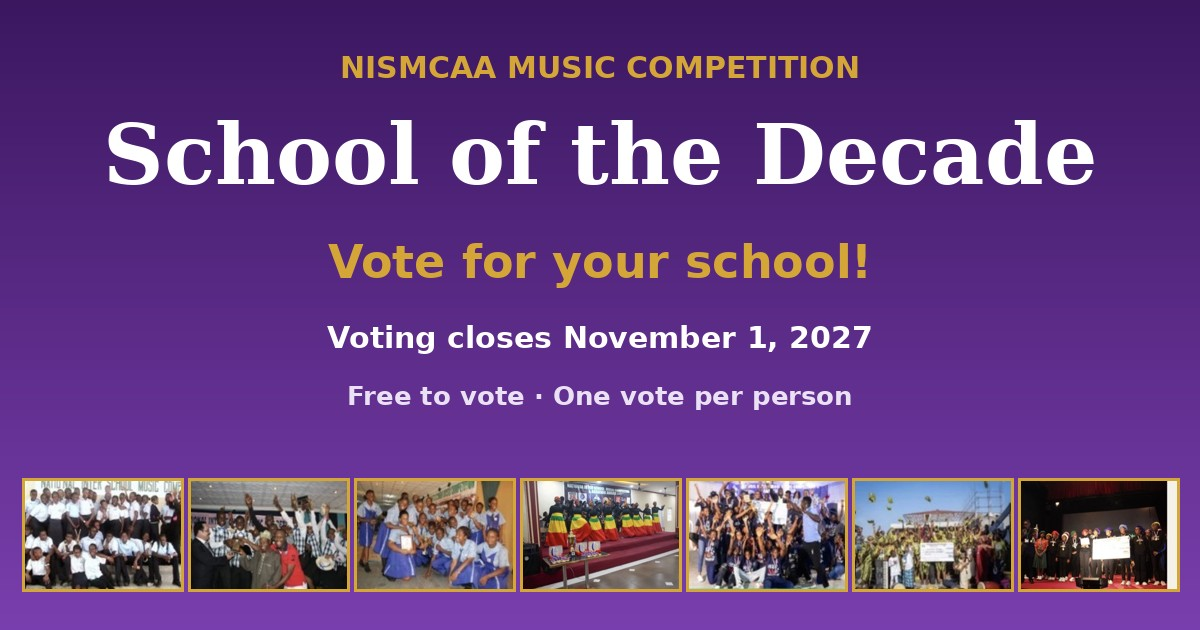
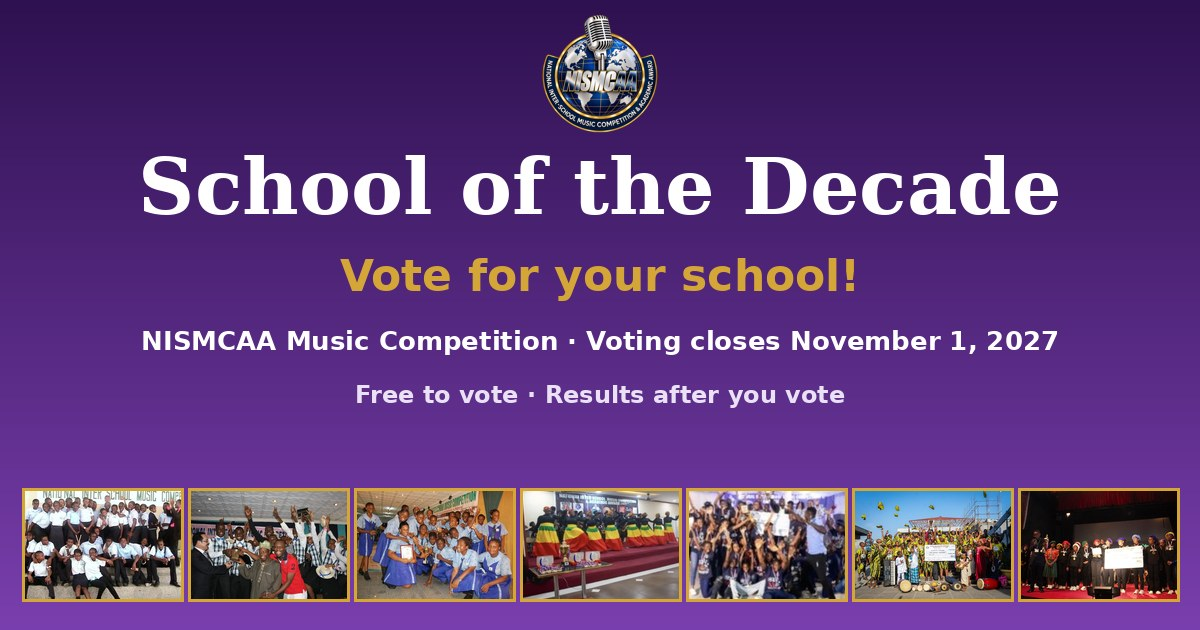
SOTD v3: Tiana review fixes, hi-res photos, hidden counts, privacy, admin page

diff --git a/sotd.html b/sotd.html
@@ -3,89 +3,99 @@
 <meta property="og:type" content="website"><meta property="og:title" content="NISMCAA School of the Decade 🏆"><meta property="og:description" content="Vote for your school! Every NISMCAA Music Competition winning school is in the running. Voting closes November 1, 2027.">
 <meta property="og:url" content="https://koralimage-debug.github.io/nismcaa-meeting-room/sotd.html"><meta property="og:image" content="https://koralimage-debug.github.io/nismcaa-meeting-room/images/sotd/share_1200x630.jpg"><meta property="og:image:width" content="1200"><meta property="og:image:height" content="630"><meta property="og:image:alt" content="NISMCAA School of the Decade: photos of the winning schools in purple and gold">
 <meta name="twitter:card" content="summary_large_image"><meta name="twitter:title" content="NISMCAA School of the Decade 🏆"><meta name="twitter:description" content="Vote for your school! Voting closes November 1, 2027."><meta name="twitter:image" content="https://koralimage-debug.github.io/nismcaa-meeting-room/images/sotd/share_1200x630.jpg">
+<link rel="preconnect" href="https://fonts.googleapis.com"><link href="https://fonts.googleapis.com/css2?family=Montserrat:wght@500;600;700;800&family=Playfair+Display:wght@700;800&display=swap" rel="stylesheet">
 <title>NISMCAA School of the Decade</title>
 <style>
-*{box-sizing:border-box}html,body{margin:0;overflow-x:hidden}body{font-family:system-ui,-apple-system,Segoe UI,Roboto,sans-serif;background:#f7f3fb;color:#24123a;line-height:1.45}
-header{background:linear-gradient(160deg,#3b1760,#5B2A86 60%,#7a3fae);color:#fff;text-align:center;padding:28px 16px 24px}
-header .k{color:#D4A537;font-weight:700;letter-spacing:.12em;font-size:13px;text-transform:uppercase}
-h1{font-family:Georgia,serif;font-size:30px;margin:6px 0 8px;line-height:1.15}h1 span{color:#D4A537}
+*{box-sizing:border-box}html,body{margin:0;overflow-x:hidden}body{font-family:Montserrat,system-ui,-apple-system,Segoe UI,Roboto,sans-serif;background:#f7f3fb;color:#24123a;line-height:1.5}
+header{background:radial-gradient(circle at 50% 0,#8a4cc2,#5B2A86 45%,#2e1150);color:#fff;text-align:center;padding:22px 16px 24px}
+header img{width:112px;height:112px;object-fit:contain;filter:drop-shadow(0 4px 14px rgba(0,0,0,.35))}
+header .k{color:#D4A537;font-weight:700;letter-spacing:.14em;font-size:13px;text-transform:uppercase;margin-top:6px}
+h1{font-family:"Playfair Display",Georgia,serif;font-size:34px;margin:4px 0 8px;line-height:1.1}h1 span{color:#D4A537}
 header p{margin:0 auto;max-width:560px;font-size:16px;opacity:.95}
 .cd{display:flex;justify-content:center;gap:8px;margin-top:16px}.cd div{background:rgba(255,255,255,.12);border:1px solid #D4A537;border-radius:10px;padding:8px 0;width:68px}
-.cd b{display:block;font-size:22px;color:#D4A537}.cd small{font-size:12px}
+.cd b{display:block;font-size:22px;color:#D4A537}.cd small{font-size:12px}#dl{margin-top:8px;font-size:14px}
 main{max-width:1100px;margin:0 auto;padding:16px}
-.grid{display:grid;grid-template-columns:1fr;gap:16px}@media(min-width:640px){.grid{grid-template-columns:1fr 1fr}}@media(min-width:980px){.grid{grid-template-columns:1fr 1fr 1fr}}
+.grid{display:flex;flex-wrap:wrap;justify-content:center;gap:16px}.card{flex:1 1 100%;max-width:520px}
+@media(min-width:640px){.card{flex:0 1 calc(50% - 8px)}}@media(min-width:980px){.card{flex:0 1 calc(33.333% - 11px)}}
 .card{background:#fff;border-radius:16px;overflow:hidden;box-shadow:0 4px 18px rgba(59,23,96,.12);border-top:4px solid #D4A537;display:flex;flex-direction:column}
 .card img{width:100%;aspect-ratio:3/2;object-fit:cover;display:block;background:#eee}
 .ill{aspect-ratio:3/2;background:radial-gradient(circle at 50% 40%,#7a3fae,#3b1760);display:flex;align-items:center;justify-content:center;color:#D4A537;font-family:Georgia,serif;font-size:56px}
 .body{padding:14px 16px 16px;display:flex;flex-direction:column;gap:8px;flex:1}
 .card h2{margin:0;font-size:20px;color:#3b1760}.ed{display:flex;flex-wrap:wrap;gap:6px}.ed span{background:#f3e8c9;color:#6b4b00;border-radius:999px;padding:3px 10px;font-size:13px;font-weight:600}
-.vote{margin-top:auto;min-height:52px;border:0;border-radius:12px;background:linear-gradient(#e2b649,#c99520);color:#24123a;font-size:18px;font-weight:800;cursor:pointer}
+.vote{margin-top:auto;min-height:52px;border:0;border-radius:12px;background:linear-gradient(#e2b649,#c99520);color:#24123a;font:800 18px Montserrat,system-ui,sans-serif;cursor:pointer}
 .vote:disabled{opacity:.55;cursor:default}.bar{height:12px;background:#eee;border-radius:6px;overflow:hidden}.bar i{display:block;height:100%;background:linear-gradient(90deg,#5B2A86,#D4A537);width:0;transition:width .8s}
-.res{display:none;font-size:14px;font-weight:600;color:#5B2A86}.voted .res{display:block}.mine{outline:3px solid #D4A537}
-#msg{text-align:center;font-weight:700;color:#5B2A86;min-height:22px;margin:4px 0 12px}
+.res{display:none;font-size:14px;font-weight:600;color:#5B2A86}.shown .res{display:block}.mine{outline:3px solid #D4A537}
+#msg{text-align:center;font-weight:700;color:#5B2A86;min-height:22px;margin:4px 0 12px}#msg button{min-height:44px;margin-left:8px;padding:0 18px;border-radius:22px;border:2px solid #5B2A86;background:#fff;color:#5B2A86;font:700 15px Montserrat,sans-serif;cursor:pointer}
+#board{display:none;background:#fff;border-radius:16px;padding:16px;margin-bottom:16px;box-shadow:0 4px 18px rgba(59,23,96,.10)}#board h3{margin:0 0 10px;color:#3b1760;text-align:center}
+#board ol{margin:0;padding:0;list-style:none}#board li{margin:8px 0}#board .r{display:flex;justify-content:space-between;font-weight:600;font-size:15px;gap:8px}
+.win{background:linear-gradient(135deg,#3b1760,#5B2A86);color:#fff;border:2px solid #D4A537;border-radius:16px;padding:16px;text-align:center;margin-bottom:16px;display:none}.win b{color:#D4A537;font-family:"Playfair Display",serif;font-size:24px;display:block}
 section.rules{background:#fff;border-radius:16px;padding:18px;margin-top:24px;border-left:5px solid #5B2A86}section.rules h3{margin-top:0;color:#3b1760}
 footer{text-align:center;padding:24px 16px;color:#5B2A86;font-size:14px}a{color:#5B2A86}
-#admin{display:none;background:#fff;border-radius:16px;padding:16px;margin-top:24px}#admin input{width:100%;padding:10px;font-size:16px;margin:6px 0}#admin table{width:100%;border-collapse:collapse}#admin td{padding:6px;border-bottom:1px solid #eee}
+.tl{display:inline-flex;align-items:center;min-height:44px;padding:0 4px;font-weight:700}
 .share{background:#fff;border-radius:16px;padding:14px;margin:0 0 16px;box-shadow:0 4px 18px rgba(59,23,96,.10);text-align:center}
 .share h3{margin:0 0 10px;font-size:17px;color:#3b1760}.sb{display:flex;flex-wrap:wrap;justify-content:center;gap:10px}
 .sb a,.sb button{width:48px;height:48px;border-radius:50%;border:2px solid #D4A537;background:#5B2A86;display:inline-flex;align-items:center;justify-content:center;cursor:pointer;padding:0}
 .sb svg{width:22px;height:22px;fill:#fff}.sb .nat{background:#D4A537}.sb .nat svg{fill:#3b1760}.sn{font-size:14px;color:#5B2A86;font-weight:600;min-height:20px;margin-top:8px}
 #share2{display:none}.voted #share2{display:block}
 </style></head><body>
-<header><div class="k">NISMCAA Music Competition</div><h1>School of the <span>Decade</span></h1>
+<header><img src="images/sotd/logo.png" alt="NISMCAA logo" width="112" height="112"><div class="k">NISMCAA Music Competition</div><h1>School of the <span>Decade</span></h1>
 <p>Every school that has won the NISMCAA Music Competition is in the running. Vote for your favorite. The school with the most votes is crowned NISMCAA School of the Decade.</p>
-<div class="cd" id="cd"></div><div id="dl" style="margin-top:8px;font-size:14px"></div></header>
-<main><section class="share" id="share1"><h3>Share the vote with your school family</h3><div class="sb"><button type="button" class="sc nat" data-k="sh" aria-label="Share" title="Share"><svg viewBox="0 0 24 24" aria-hidden="true"><path d="M18 16a3 3 0 0 0-2.2 1L8.9 13a3 3 0 0 0 0-2l6.9-4A3 3 0 1 0 15 5l-6.9 4a3 3 0 1 0 0 6l6.9 4A3 3 0 1 0 18 16z"/></svg></button><a class="sx" data-k="fb" target="_blank" rel="noopener" aria-label="Share on Facebook" title="Facebook" ><svg viewBox="0 0 24 24" aria-hidden="true"><path d="M14 8V6c0-1 .3-1.5 1.6-1.5H17V1.2C16.6 1.1 15.4 1 14 1c-3 0-4.6 1.7-4.6 4.8V8H7v3.4h2.4V23H14V11.4h2.8l.4-3.4z"/></svg></a><a class="sx" data-k="x" target="_blank" rel="noopener" aria-label="Share on X" title="X" ><svg viewBox="0 0 24 24" aria-hidden="true"><path d="M17.8 2h3.3l-7.2 8.3L22.4 22h-6.6l-5.2-6.8L4.6 22H1.3l7.7-8.8L.9 2h6.8l4.7 6.2zm-1.2 18h1.8L6.5 3.9H4.5z"/></svg></a><a class="sx" data-k="wa" target="_blank" rel="noopener" aria-label="Share on WhatsApp" title="WhatsApp" ><svg viewBox="0 0 24 24" aria-hidden="true"><path d="M12 1.5A10.4 10.4 0 0 0 3 17.2L1.5 22.5l5.5-1.4A10.4 10.4 0 1 0 12 1.5zm0 19a8.6 8.6 0 0 1-4.4-1.2l-.3-.2-3.3.9.9-3.2-.2-.3A8.6 8.6 0 1 1 12 20.5zm4.7-6.4c-.3-.1-1.5-.8-1.8-.8-.2-.1-.4-.1-.6.1l-.8 1c-.2.2-.3.2-.6.1a7 7 0 0 1-3.5-3c-.3-.5.3-.4.8-1.4.1-.2 0-.3 0-.5l-.8-1.9c-.2-.5-.4-.4-.6-.4h-.5a1 1 0 0 0-.7.3 3 3 0 0 0-.9 2.2 5.2 5.2 0 0 0 1.1 2.7c.1.2 1.9 2.9 4.6 4 1.7.7 2.4.8 3.2.7.5-.1 1.5-.6 1.8-1.2.2-.6.2-1.1.1-1.2l-.5-.3z"/></svg></a><a class="sx" data-k="li" target="_blank" rel="noopener" aria-label="Share on LinkedIn" title="LinkedIn" ><svg viewBox="0 0 24 24" aria-hidden="true"><path d="M4.5 3a2.2 2.2 0 1 1 0 4.4 2.2 2.2 0 0 1 0-4.4zM2.6 9h3.8v12H2.6zM9 9h3.6v1.7h.1c.5-1 1.7-2 3.6-2 3.8 0 4.5 2.5 4.5 5.8V21H17v-5.8c0-1.4 0-3.2-2-3.2s-2.2 1.5-2.2 3.1V21H9z"/></svg></a><a class="sx" data-k="tg" target="_blank" rel="noopener" aria-label="Share on Telegram" title="Telegram" ><svg viewBox="0 0 24 24" aria-hidden="true"><path d="M21.9 3.6 18.6 19.3c-.2 1.1-.9 1.4-1.8.9l-5-3.7-2.4 2.3c-.3.3-.5.5-1 .5l.3-5.1 9.3-8.4c.4-.4-.1-.6-.6-.2L5.9 12.8l-4.9-1.5c-1.1-.3-1.1-1.1.2-1.6L20.4 2.3c.9-.3 1.7.2 1.5 1.3z"/></svg></a><a class="sx" data-k="em" target="_blank" rel="noopener" aria-label="Share on Email" title="Email" ><svg viewBox="0 0 24 24" aria-hidden="true"><path d="M2 5h20v14H2zm2 2v.5l8 5 8-5V7zm0 2.8V17h16V9.8l-8 5z"/></svg></a><button type="button" class="sc " data-k="ig" aria-label="Instagram" title="Instagram"><svg viewBox="0 0 24 24" aria-hidden="true"><path d="M7 2h10a5 5 0 0 1 5 5v10a5 5 0 0 1-5 5H7a5 5 0 0 1-5-5V7a5 5 0 0 1 5-5zm0 2a3 3 0 0 0-3 3v10a3 3 0 0 0 3 3h10a3 3 0 0 0 3-3V7a3 3 0 0 0-3-3zm5 3.5a4.5 4.5 0 1 1 0 9 4.5 4.5 0 0 1 0-9zm0 2a2.5 2.5 0 1 0 0 5 2.5 2.5 0 0 0 0-5zM17.3 5.5a1.2 1.2 0 1 1 0 2.4 1.2 1.2 0 0 1 0-2.4z"/></svg></button><button type="button" class="sc " data-k="tt" aria-label="TikTok" title="TikTok"><svg viewBox="0 0 24 24" aria-hidden="true"><path d="M16.6 2c.4 2.3 1.9 3.9 4.4 4.1v3.3a8 8 0 0 1-4.3-1.3v6.6A6.3 6.3 0 1 1 10.4 8.5v3.4a3 3 0 1 0 2.9 3V2z"/></svg></button><button type="button" class="sc " data-k="ln" aria-label="Copy link" title="Copy link"><svg viewBox="0 0 24 24" aria-hidden="true"><path d="M10.6 13.4a1 1 0 0 1 0-1.4l3.5-3.5a3 3 0 0 1 4.2 4.2l-2 2a1 1 0 1 1-1.4-1.4l2-2a1 1 0 0 0-1.4-1.4L12 13.4a1 1 0 0 1-1.4 0zm2.8-2.8a1 1 0 0 1 0 1.4l-3.5 3.5a3 3 0 0 1-4.2-4.2l2-2a1 1 0 1 1 1.4 1.4l-2 2a1 1 0 0 0 1.4 1.4L12 9.2a1 1 0 0 1 1.4 0z"/></svg></button></div><div class="sn" aria-live="polite"></div></section><div id="msg"></div><section class="share" id="share2"><h3>Thanks for voting! Now ask your friends to vote</h3><div class="sb"><button type="button" class="sc nat" data-k="sh" aria-label="Share" title="Share"><svg viewBox="0 0 24 24" aria-hidden="true"><path d="M18 16a3 3 0 0 0-2.2 1L8.9 13a3 3 0 0 0 0-2l6.9-4A3 3 0 1 0 15 5l-6.9 4a3 3 0 1 0 0 6l6.9 4A3 3 0 1 0 18 16z"/></svg></button><a class="sx" data-k="fb" target="_blank" rel="noopener" aria-label="Share on Facebook" title="Facebook" ><svg viewBox="0 0 24 24" aria-hidden="true"><path d="M14 8V6c0-1 .3-1.5 1.6-1.5H17V1.2C16.6 1.1 15.4 1 14 1c-3 0-4.6 1.7-4.6 4.8V8H7v3.4h2.4V23H14V11.4h2.8l.4-3.4z"/></svg></a><a class="sx" data-k="x" target="_blank" rel="noopener" aria-label="Share on X" title="X" ><svg viewBox="0 0 24 24" aria-hidden="true"><path d="M17.8 2h3.3l-7.2 8.3L22.4 22h-6.6l-5.2-6.8L4.6 22H1.3l7.7-8.8L.9 2h6.8l4.7 6.2zm-1.2 18h1.8L6.5 3.9H4.5z"/></svg></a><a class="sx" data-k="wa" target="_blank" rel="noopener" aria-label="Share on WhatsApp" title="WhatsApp" ><svg viewBox="0 0 24 24" aria-hidden="true"><path d="M12 1.5A10.4 10.4 0 0 0 3 17.2L1.5 22.5l5.5-1.4A10.4 10.4 0 1 0 12 1.5zm0 19a8.6 8.6 0 0 1-4.4-1.2l-.3-.2-3.3.9.9-3.2-.2-.3A8.6 8.6 0 1 1 12 20.5zm4.7-6.4c-.3-.1-1.5-.8-1.8-.8-.2-.1-.4-.1-.6.1l-.8 1c-.2.2-.3.2-.6.1a7 7 0 0 1-3.5-3c-.3-.5.3-.4.8-1.4.1-.2 0-.3 0-.5l-.8-1.9c-.2-.5-.4-.4-.6-.4h-.5a1 1 0 0 0-.7.3 3 3 0 0 0-.9 2.2 5.2 5.2 0 0 0 1.1 2.7c.1.2 1.9 2.9 4.6 4 1.7.7 2.4.8 3.2.7.5-.1 1.5-.6 1.8-1.2.2-.6.2-1.1.1-1.2l-.5-.3z"/></svg></a><a class="sx" data-k="li" target="_blank" rel="noopener" aria-label="Share on LinkedIn" title="LinkedIn" ><svg viewBox="0 0 24 24" aria-hidden="true"><path d="M4.5 3a2.2 2.2 0 1 1 0 4.4 2.2 2.2 0 0 1 0-4.4zM2.6 9h3.8v12H2.6zM9 9h3.6v1.7h.1c.5-1 1.7-2 3.6-2 3.8 0 4.5 2.5 4.5 5.8V21H17v-5.8c0-1.4 0-3.2-2-3.2s-2.2 1.5-2.2 3.1V21H9z"/></svg></a><a class="sx" data-k="tg" target="_blank" rel="noopener" aria-label="Share on Telegram" title="Telegram" ><svg viewBox="0 0 24 24" aria-hidden="true"><path d="M21.9 3.6 18.6 19.3c-.2 1.1-.9 1.4-1.8.9l-5-3.7-2.4 2.3c-.3.3-.5.5-1 .5l.3-5.1 9.3-8.4c.4-.4-.1-.6-.6-.2L5.9 12.8l-4.9-1.5c-1.1-.3-1.1-1.1.2-1.6L20.4 2.3c.9-.3 1.7.2 1.5 1.3z"/></svg></a><a class="sx" data-k="em" target="_blank" rel="noopener" aria-label="Share on Email" title="Email" ><svg viewBox="0 0 24 24" aria-hidden="true"><path d="M2 5h20v14H2zm2 2v.5l8 5 8-5V7zm0 2.8V17h16V9.8l-8 5z"/></svg></a><button type="button" class="sc " data-k="ig" aria-label="Instagram" title="Instagram"><svg viewBox="0 0 24 24" aria-hidden="true"><path d="M7 2h10a5 5 0 0 1 5 5v10a5 5 0 0 1-5 5H7a5 5 0 0 1-5-5V7a5 5 0 0 1 5-5zm0 2a3 3 0 0 0-3 3v10a3 3 0 0 0 3 3h10a3 3 0 0 0 3-3V7a3 3 0 0 0-3-3zm5 3.5a4.5 4.5 0 1 1 0 9 4.5 4.5 0 0 1 0-9zm0 2a2.5 2.5 0 1 0 0 5 2.5 2.5 0 0 0 0-5zM17.3 5.5a1.2 1.2 0 1 1 0 2.4 1.2 1.2 0 0 1 0-2.4z"/></svg></button><button type="button" class="sc " data-k="tt" aria-label="TikTok" title="TikTok"><svg viewBox="0 0 24 24" aria-hidden="true"><path d="M16.6 2c.4 2.3 1.9 3.9 4.4 4.1v3.3a8 8 0 0 1-4.3-1.3v6.6A6.3 6.3 0 1 1 10.4 8.5v3.4a3 3 0 1 0 2.9 3V2z"/></svg></button><button type="button" class="sc " data-k="ln" aria-label="Copy link" title="Copy link"><svg viewBox="0 0 24 24" aria-hidden="true"><path d="M10.6 13.4a1 1 0 0 1 0-1.4l3.5-3.5a3 3 0 0 1 4.2 4.2l-2 2a1 1 0 1 1-1.4-1.4l2-2a1 1 0 0 0-1.4-1.4L12 13.4a1 1 0 0 1-1.4 0zm2.8-2.8a1 1 0 0 1 0 1.4l-3.5 3.5a3 3 0 0 1-4.2-4.2l2-2a1 1 0 1 1 1.4 1.4l-2 2a1 1 0 0 0 1.4 1.4L12 9.2a1 1 0 0 1 1.4 0z"/></svg></button></div><div class="sn" aria-live="polite"></div></section><div class="grid" id="grid"></div>
+<div class="cd" id="cd"></div><div id="dl"></div></header>
+<main><section class="share" id="share1"><h3>Share the vote with your school family</h3><div class="sb"><button type="button" class="sc nat" data-k="sh" aria-label="Share" title="Share"><svg viewBox="0 0 24 24" aria-hidden="true"><path d="M18 16a3 3 0 0 0-2.2 1L8.9 13a3 3 0 0 0 0-2l6.9-4A3 3 0 1 0 15 5l-6.9 4a3 3 0 1 0 0 6l6.9 4A3 3 0 1 0 18 16z"/></svg></button><a class="sx" data-k="fb" target="_blank" rel="noopener" aria-label="Share on Facebook" title="Facebook" ><svg viewBox="0 0 24 24" aria-hidden="true"><path d="M14 8V6c0-1 .3-1.5 1.6-1.5H17V1.2C16.6 1.1 15.4 1 14 1c-3 0-4.6 1.7-4.6 4.8V8H7v3.4h2.4V23H14V11.4h2.8l.4-3.4z"/></svg></a><a class="sx" data-k="x" target="_blank" rel="noopener" aria-label="Share on X" title="X" ><svg viewBox="0 0 24 24" aria-hidden="true"><path d="M17.8 2h3.3l-7.2 8.3L22.4 22h-6.6l-5.2-6.8L4.6 22H1.3l7.7-8.8L.9 2h6.8l4.7 6.2zm-1.2 18h1.8L6.5 3.9H4.5z"/></svg></a><a class="sx" data-k="wa" target="_blank" rel="noopener" aria-label="Share on WhatsApp" title="WhatsApp" ><svg viewBox="0 0 24 24" aria-hidden="true"><path d="M12 1.5A10.4 10.4 0 0 0 3 17.2L1.5 22.5l5.5-1.4A10.4 10.4 0 1 0 12 1.5zm0 19a8.6 8.6 0 0 1-4.4-1.2l-.3-.2-3.3.9.9-3.2-.2-.3A8.6 8.6 0 1 1 12 20.5zm4.7-6.4c-.3-.1-1.5-.8-1.8-.8-.2-.1-.4-.1-.6.1l-.8 1c-.2.2-.3.2-.6.1a7 7 0 0 1-3.5-3c-.3-.5.3-.4.8-1.4.1-.2 0-.3 0-.5l-.8-1.9c-.2-.5-.4-.4-.6-.4h-.5a1 1 0 0 0-.7.3 3 3 0 0 0-.9 2.2 5.2 5.2 0 0 0 1.1 2.7c.1.2 1.9 2.9 4.6 4 1.7.7 2.4.8 3.2.7.5-.1 1.5-.6 1.8-1.2.2-.6.2-1.1.1-1.2l-.5-.3z"/></svg></a><a class="sx" data-k="li" target="_blank" rel="noopener" aria-label="Share on LinkedIn" title="LinkedIn" ><svg viewBox="0 0 24 24" aria-hidden="true"><path d="M4.5 3a2.2 2.2 0 1 1 0 4.4 2.2 2.2 0 0 1 0-4.4zM2.6 9h3.8v12H2.6zM9 9h3.6v1.7h.1c.5-1 1.7-2 3.6-2 3.8 0 4.5 2.5 4.5 5.8V21H17v-5.8c0-1.4 0-3.2-2-3.2s-2.2 1.5-2.2 3.1V21H9z"/></svg></a><a class="sx" data-k="tg" target="_blank" rel="noopener" aria-label="Share on Telegram" title="Telegram" ><svg viewBox="0 0 24 24" aria-hidden="true"><path d="M21.9 3.6 18.6 19.3c-.2 1.1-.9 1.4-1.8.9l-5-3.7-2.4 2.3c-.3.3-.5.5-1 .5l.3-5.1 9.3-8.4c.4-.4-.1-.6-.6-.2L5.9 12.8l-4.9-1.5c-1.1-.3-1.1-1.1.2-1.6L20.4 2.3c.9-.3 1.7.2 1.5 1.3z"/></svg></a><a class="sx" data-k="em" target="_blank" rel="noopener" aria-label="Share on Email" title="Email" ><svg viewBox="0 0 24 24" aria-hidden="true"><path d="M2 5h20v14H2zm2 2v.5l8 5 8-5V7zm0 2.8V17h16V9.8l-8 5z"/></svg></a><button type="button" class="sc " data-k="ig" aria-label="Instagram" title="Instagram"><svg viewBox="0 0 24 24" aria-hidden="true"><path d="M7 2h10a5 5 0 0 1 5 5v10a5 5 0 0 1-5 5H7a5 5 0 0 1-5-5V7a5 5 0 0 1 5-5zm0 2a3 3 0 0 0-3 3v10a3 3 0 0 0 3 3h10a3 3 0 0 0 3-3V7a3 3 0 0 0-3-3zm5 3.5a4.5 4.5 0 1 1 0 9 4.5 4.5 0 0 1 0-9zm0 2a2.5 2.5 0 1 0 0 5 2.5 2.5 0 0 0 0-5zM17.3 5.5a1.2 1.2 0 1 1 0 2.4 1.2 1.2 0 0 1 0-2.4z"/></svg></button><button type="button" class="sc " data-k="tt" aria-label="TikTok" title="TikTok"><svg viewBox="0 0 24 24" aria-hidden="true"><path d="M16.6 2c.4 2.3 1.9 3.9 4.4 4.1v3.3a8 8 0 0 1-4.3-1.3v6.6A6.3 6.3 0 1 1 10.4 8.5v3.4a3 3 0 1 0 2.9 3V2z"/></svg></button><button type="button" class="sc " data-k="ln" aria-label="Copy link" title="Copy link"><svg viewBox="0 0 24 24" aria-hidden="true"><path d="M10.6 13.4a1 1 0 0 1 0-1.4l3.5-3.5a3 3 0 0 1 4.2 4.2l-2 2a1 1 0 1 1-1.4-1.4l2-2a1 1 0 0 0-1.4-1.4L12 13.4a1 1 0 0 1-1.4 0zm2.8-2.8a1 1 0 0 1 0 1.4l-3.5 3.5a3 3 0 0 1-4.2-4.2l2-2a1 1 0 1 1 1.4 1.4l-2 2a1 1 0 0 0 1.4 1.4L12 9.2a1 1 0 0 1 1.4 0z"/></svg></button></div><div class="sn" aria-live="polite"></div></section><div class="win" id="win"></div><div id="msg" aria-live="polite">Loading the vote…</div><section class="share" id="share2"><h3>Thanks for voting! Now ask your friends to vote</h3><div class="sb"><button type="button" class="sc nat" data-k="sh" aria-label="Share" title="Share"><svg viewBox="0 0 24 24" aria-hidden="true"><path d="M18 16a3 3 0 0 0-2.2 1L8.9 13a3 3 0 0 0 0-2l6.9-4A3 3 0 1 0 15 5l-6.9 4a3 3 0 1 0 0 6l6.9 4A3 3 0 1 0 18 16z"/></svg></button><a class="sx" data-k="fb" target="_blank" rel="noopener" aria-label="Share on Facebook" title="Facebook" ><svg viewBox="0 0 24 24" aria-hidden="true"><path d="M14 8V6c0-1 .3-1.5 1.6-1.5H17V1.2C16.6 1.1 15.4 1 14 1c-3 0-4.6 1.7-4.6 4.8V8H7v3.4h2.4V23H14V11.4h2.8l.4-3.4z"/></svg></a><a class="sx" data-k="x" target="_blank" rel="noopener" aria-label="Share on X" title="X" ><svg viewBox="0 0 24 24" aria-hidden="true"><path d="M17.8 2h3.3l-7.2 8.3L22.4 22h-6.6l-5.2-6.8L4.6 22H1.3l7.7-8.8L.9 2h6.8l4.7 6.2zm-1.2 18h1.8L6.5 3.9H4.5z"/></svg></a><a class="sx" data-k="wa" target="_blank" rel="noopener" aria-label="Share on WhatsApp" title="WhatsApp" ><svg viewBox="0 0 24 24" aria-hidden="true"><path d="M12 1.5A10.4 10.4 0 0 0 3 17.2L1.5 22.5l5.5-1.4A10.4 10.4 0 1 0 12 1.5zm0 19a8.6 8.6 0 0 1-4.4-1.2l-.3-.2-3.3.9.9-3.2-.2-.3A8.6 8.6 0 1 1 12 20.5zm4.7-6.4c-.3-.1-1.5-.8-1.8-.8-.2-.1-.4-.1-.6.1l-.8 1c-.2.2-.3.2-.6.1a7 7 0 0 1-3.5-3c-.3-.5.3-.4.8-1.4.1-.2 0-.3 0-.5l-.8-1.9c-.2-.5-.4-.4-.6-.4h-.5a1 1 0 0 0-.7.3 3 3 0 0 0-.9 2.2 5.2 5.2 0 0 0 1.1 2.7c.1.2 1.9 2.9 4.6 4 1.7.7 2.4.8 3.2.7.5-.1 1.5-.6 1.8-1.2.2-.6.2-1.1.1-1.2l-.5-.3z"/></svg></a><a class="sx" data-k="li" target="_blank" rel="noopener" aria-label="Share on LinkedIn" title="LinkedIn" ><svg viewBox="0 0 24 24" aria-hidden="true"><path d="M4.5 3a2.2 2.2 0 1 1 0 4.4 2.2 2.2 0 0 1 0-4.4zM2.6 9h3.8v12H2.6zM9 9h3.6v1.7h.1c.5-1 1.7-2 3.6-2 3.8 0 4.5 2.5 4.5 5.8V21H17v-5.8c0-1.4 0-3.2-2-3.2s-2.2 1.5-2.2 3.1V21H9z"/></svg></a><a class="sx" data-k="tg" target="_blank" rel="noopener" aria-label="Share on Telegram" title="Telegram" ><svg viewBox="0 0 24 24" aria-hidden="true"><path d="M21.9 3.6 18.6 19.3c-.2 1.1-.9 1.4-1.8.9l-5-3.7-2.4 2.3c-.3.3-.5.5-1 .5l.3-5.1 9.3-8.4c.4-.4-.1-.6-.6-.2L5.9 12.8l-4.9-1.5c-1.1-.3-1.1-1.1.2-1.6L20.4 2.3c.9-.3 1.7.2 1.5 1.3z"/></svg></a><a class="sx" data-k="em" target="_blank" rel="noopener" aria-label="Share on Email" title="Email" ><svg viewBox="0 0 24 24" aria-hidden="true"><path d="M2 5h20v14H2zm2 2v.5l8 5 8-5V7zm0 2.8V17h16V9.8l-8 5z"/></svg></a><button type="button" class="sc " data-k="ig" aria-label="Instagram" title="Instagram"><svg viewBox="0 0 24 24" aria-hidden="true"><path d="M7 2h10a5 5 0 0 1 5 5v10a5 5 0 0 1-5 5H7a5 5 0 0 1-5-5V7a5 5 0 0 1 5-5zm0 2a3 3 0 0 0-3 3v10a3 3 0 0 0 3 3h10a3 3 0 0 0 3-3V7a3 3 0 0 0-3-3zm5 3.5a4.5 4.5 0 1 1 0 9 4.5 4.5 0 0 1 0-9zm0 2a2.5 2.5 0 1 0 0 5 2.5 2.5 0 0 0 0-5zM17.3 5.5a1.2 1.2 0 1 1 0 2.4 1.2 1.2 0 0 1 0-2.4z"/></svg></button><button type="button" class="sc " data-k="tt" aria-label="TikTok" title="TikTok"><svg viewBox="0 0 24 24" aria-hidden="true"><path d="M16.6 2c.4 2.3 1.9 3.9 4.4 4.1v3.3a8 8 0 0 1-4.3-1.3v6.6A6.3 6.3 0 1 1 10.4 8.5v3.4a3 3 0 1 0 2.9 3V2z"/></svg></button><button type="button" class="sc " data-k="ln" aria-label="Copy link" title="Copy link"><svg viewBox="0 0 24 24" aria-hidden="true"><path d="M10.6 13.4a1 1 0 0 1 0-1.4l3.5-3.5a3 3 0 0 1 4.2 4.2l-2 2a1 1 0 1 1-1.4-1.4l2-2a1 1 0 0 0-1.4-1.4L12 13.4a1 1 0 0 1-1.4 0zm2.8-2.8a1 1 0 0 1 0 1.4l-3.5 3.5a3 3 0 0 1-4.2-4.2l2-2a1 1 0 1 1 1.4 1.4l-2 2a1 1 0 0 0 1.4 1.4L12 9.2a1 1 0 0 1 1.4 0z"/></svg></button></div><div class="sn" aria-live="polite"></div></section><section id="board" aria-live="polite"><h3>Live leaderboard</h3><ol id="lb"></ol></section><div class="grid" id="grid"></div>
 <section class="rules"><h3>Award rules</h3><ul>
 <li>Candidates are the winning schools of the 1st to 9th editions of the NISMCAA Music Competition. Schools that won more than once appear once.</li>
-<li>One vote per person. Duplicate or automated votes are removed.</li>
-<li>Voting closes at the deadline shown above. The school with the most valid votes wins the NISMCAA School of the Decade award.</li>
+<li>Anyone may vote. One vote each: one vote per browser, and at most 3 votes per internet connection so a school's shared Wi-Fi still works. Duplicate or automated votes are removed.</li>
+<li>Results show after you vote. Voting closes at the deadline shown above, and the school with the most valid votes wins the NISMCAA School of the Decade award.</li>
 <li>Voting is free. NISMCAA's decision on vote validity is final.</li></ul>
-<p>Questions? Email <a href="mailto:info@nismcaa.com">info@nismcaa.com</a>. Learn more at <a href="https://academy.nismcaa.com">academy.nismcaa.com</a>.</p></section>
-<section id="admin"><h3>Admin: vote counts</h3><input id="tok" type="password" placeholder="Admin token" autocomplete="off"><button class="vote" id="ab" style="width:100%">Show counts</button><div id="ao"></div></section>
-</main><footer>© NISMCAA · <a href="mailto:info@nismcaa.com">info@nismcaa.com</a></footer>
+<p><b>Privacy:</b> we do not collect names or any children's details. To stop repeat votes we use only an anonymous code stored in your browser and a scrambled (hashed) form of your IP address, never the address itself.</p>
+<p>Questions? Email <a class="tl" href="mailto:info@nismcaa.com">info@nismcaa.com</a>. Learn more at <a class="tl" href="https://academy.nismcaa.com">academy.nismcaa.com</a>.</p></section>
+</main><footer>© NISMCAA · <a class="tl" href="mailto:info@nismcaa.com">info@nismcaa.com</a></footer>
 <script>
-/* ===== CONFIG: swap photos here (null = illustrated card). Tiana: replace paths with corrected photos. ===== */
+/* ===== CONFIG: swap photos here (null = illustrated card). Photos live in images/sotd/. ===== */
 const API='https://nismcaa-payments.onrender.com/poll/sotd';
 const DEADLINE_FALLBACK='2027-11-01T23:59:59-04:00'; // server value (env SOTD_DEADLINE) wins
 const SCHOOLS=[
- {id:'dansol',name:'Dansol High School',editions:['1st'],photo:'images/sotd/p5_1.jpg'},
- {id:'inglewood',name:'Inglewood Academy, Ikorodu',editions:['2nd'],photo:'images/sotd/p5_2.jpg'},
- {id:'ronik',name:'Ronik Comprehensive',editions:['3rd'],photo:'images/sotd/p5_3.jpg'},
+ {id:'dansol',name:'Dansol High School',editions:['1st'],photo:'images/sotd/dansol.jpg'},
+ {id:'inglewood',name:'Inglewood Academy, Ikorodu',editions:['2nd'],photo:'images/sotd/inglewood.jpg'},
+ {id:'ronik',name:'Ronik Comprehensive',editions:['3rd'],photo:'images/sotd/ronik.jpg'},
  {id:'honeyland',name:'Honeyland College',editions:['4th','5th','6th','9th (joint)'],photo:'images/sotd/p5_9h.jpg'},
- {id:'imperial',name:'Imperial Light College',editions:['7th'],photo:'images/sotd/p5_7.jpg'},
- {id:'platform',name:'Platform School',editions:['8th'],photo:'images/sotd/p5_8.jpg'},
- {id:'lagoon',name:'Lagoon School',editions:['9th (joint)'],photo:'images/sotd/p5_9l.jpg'}];
+ {id:'imperial',name:'Imperial Light College',editions:['7th'],photo:'images/sotd/imperial.jpg'},
+ {id:'platform',name:'Platform School',editions:['8th'],photo:'images/sotd/platform.jpg'},
+ {id:'lagoon',name:'Lagoon School',editions:['9th (joint)'],photo:'images/sotd/lagoon.jpg'}];
 /* ===== end config ===== */
-const $=s=>document.querySelector(s),g=$('#grid');let deadline=DEADLINE_FALLBACK,open=true;
+const $=s=>document.querySelector(s),g=$('#grid'),NAME=id=>(SCHOOLS.find(s=>s.id==id)||{}).name||id;let deadline=DEADLINE_FALLBACK,open=true,online=false;
 let tok=localStorage.getItem('sotd_token');if(!tok){tok=Array.from(crypto.getRandomValues(new Uint8Array(18)),b=>b.toString(16).padStart(2,'0')).join('');localStorage.setItem('sotd_token',tok)}
-const mine=localStorage.getItem('sotd_voted');
 SCHOOLS.forEach(s=>{const c=document.createElement('article');c.className='card';c.id='c-'+s.id;
  const ill=`<div class="ill" role="img" aria-label="${s.name}">♪</div>`;
  c.innerHTML=(s.photo?`<img src="${s.photo}" alt="${s.name} students" loading="lazy" onerror="this.outerHTML='${ill.replace(/"/g,'&quot;')}'">`:ill)+
  `<div class="body"><h2>${s.name}</h2><div class="ed">${s.editions.map(e=>`<span>${e.replace(' (joint)','')} Edition${e.includes('joint')?' (joint)':''}</span>`).join('')}</div>
- <div class="res"><span class="n">0 votes · 0%</span><div class="bar"><i></i></div></div><button class="vote" data-id="${s.id}">Vote</button></div>`;g.appendChild(c)});
-function show(d,voted){if(d.deadline)deadline=d.deadline;open=d.open!==false;
- if(voted||!open)document.body.classList.add('voted');
- (d.results||[]).forEach(r=>{const c=$('#c-'+r.id);if(!c)return;c.querySelector('.n').textContent=`${r.votes} vote${r.votes==1?'':'s'} · ${r.pct}%`;c.querySelector('.bar i').style.width=r.pct+'%'});
- const v=localStorage.getItem('sotd_voted');document.querySelectorAll('.vote').forEach(b=>{if(v||!open){b.disabled=true;b.textContent=b.dataset.id===v?'Your vote ✓':(open?'Voted':'Voting closed')}});
- if(v)$('#c-'+v)?.classList.add('mine');tick()}
-fetch(API).then(r=>r.json()).then(d=>show(d,!!mine)).catch(()=>{$('#msg').textContent='Live results are loading. Please refresh in a moment.'});
-g.addEventListener('click',async e=>{const b=e.target.closest('.vote');if(!b||b.disabled)return;
- document.querySelectorAll('.vote').forEach(x=>x.disabled=true);$('#msg').textContent='Saving your vote…';
+ <div class="res"><span class="n"></span><div class="bar"><i></i></div></div><button class="vote" data-id="${s.id}" disabled>Vote</button></div>`;g.appendChild(c)});
+const btns=()=>document.querySelectorAll('.vote');
+function offline(){online=false;btns().forEach(b=>b.disabled=true);$('#msg').innerHTML='Voting is temporarily unavailable. <button type="button" id="retry">Try again</button>';$('#retry').onclick=load}
+function show(d){online=true;if(d.deadline)deadline=d.deadline;open=d.open!==false;tick();
+ const v=d.voted||localStorage.getItem('sotd_voted');if(d.voted)localStorage.setItem('sotd_voted',d.voted);
+ if(d.results){document.body.classList.add('shown');if(v||!open)document.body.classList.add('voted');
+  d.results.forEach(r=>{const c=$('#c-'+r.id);if(!c)return;c.querySelector('.n').textContent=`${r.votes} vote${r.votes==1?'':'s'} · ${r.pct}%`;c.querySelector('.bar i').style.width=r.pct+'%'});
+  $('#board').style.display='block';$('#board h3').textContent=open?'Live leaderboard':'Final results';
+  $('#lb').innerHTML=d.results.slice().sort((a,b)=>b.votes-a.votes).map((r,i)=>`<li><div class="r"><span>${i+1}. ${NAME(r.id)}</span><span>${r.pct}%</span></div><div class="bar"><i style="width:${r.pct}%"></i></div></li>`).join('')}
+ if(!open){const w=d.winners||[];const W=$('#win');W.style.display='block';W.innerHTML=w.length?`Voting closed. NISMCAA School of the Decade:<b>${w.map(NAME).join(' and ')}</b>`:'Voting closed.'}
+ btns().forEach(b=>{if(!open){b.disabled=true;b.textContent='Voting closed'}else if(v){b.disabled=true;b.textContent=b.dataset.id===v?'Your vote ✓':'Voted'}else{b.disabled=false;b.textContent='Vote'}});
+ if(v)$('#c-'+v)?.classList.add('mine');
+ if(!$('#msg').dataset.keep)$('#msg').textContent=!open?'':v?'Thank you for voting! Share the vote below.':'Tap Vote on your favorite school. Results show after you vote.'}
+function load(){$('#msg').dataset.keep='';$('#msg').textContent='Loading the vote…';const ac=new AbortController();setTimeout(()=>ac.abort(),25000);
+ fetch(API+'?token='+tok,{signal:ac.signal}).then(r=>{if(!r.ok)throw 0;return r.json()}).then(show).catch(offline)}
+load();
+g.addEventListener('click',async e=>{const b=e.target.closest('.vote');if(!b||b.disabled||!online)return;
+ btns().forEach(x=>x.disabled=true);$('#msg').textContent='Saving your vote…';
  try{const r=await fetch(API,{method:'POST',headers:{'Content-Type':'application/json'},body:JSON.stringify({school:b.dataset.id,token:tok})});const d=await r.json();
-  if(r.ok){localStorage.setItem('sotd_voted',b.dataset.id);$('#msg').textContent='Thank you! Your vote is counted.'}
-  else{if(r.status===409)localStorage.setItem('sotd_voted',localStorage.getItem('sotd_voted')||'x');$('#msg').textContent=d.error||'Sorry, something went wrong.'}
-  show(d,true)}catch{$('#msg').textContent='Could not reach the server. Please try again.';document.querySelectorAll('.vote').forEach(x=>x.disabled=false)}});
-function tick(){const ms=Date.parse(deadline)-Date.now(),c=$('#cd');
- $('#dl').textContent='Voting closes '+new Date(deadline).toLocaleString('en-US',{dateStyle:'long',timeStyle:'short',timeZone:'America/New_York'})+' ET';
- if(ms<=0){c.innerHTML='<div style="width:auto;padding:8px 14px"><b>Voting closed</b></div>';return}
+  if(r.ok){localStorage.setItem('sotd_voted',b.dataset.id);$('#msg').textContent='Thank you! Your vote is counted. Share the vote below.'}
+  else{if(r.status===409&&!localStorage.getItem('sotd_voted'))localStorage.setItem('sotd_voted','x');$('#msg').textContent=d.error||'Sorry, something went wrong.'}
+  $('#msg').dataset.keep='1';show(d)}catch{offline()}});
+function tick(){const ms=Date.parse(deadline)-Date.now(),c=$('#cd'),f=new Date(deadline).toLocaleString('en-US',{dateStyle:'long',timeStyle:'short',timeZone:'America/New_York'})+' ET';
+ if(ms<=0){c.innerHTML='<div style="width:auto;padding:8px 14px"><b>Voting closed</b></div>';$('#dl').textContent='Voting closed on '+f;return}
+ $('#dl').textContent='Voting closes '+f;
  const u=[[86400e3,'days'],[3600e3,'hours'],[60e3,'min'],[1e3,'sec']];let r=ms;c.innerHTML=u.map(([m,l])=>{const n=Math.floor(r/m);r-=n*m;return`<div><b>${n}</b><small>${l}</small></div>`}).join('')}
 setInterval(tick,1000);tick();
-if(location.hash==='#admin'){$('#admin').style.display='block';$('#ab').onclick=async()=>{const r=await fetch(API+'/admin',{headers:{Authorization:'Bearer '+$('#tok').value}});
- if(!r.ok){$('#ao').textContent='Wrong token.';return}const d=await r.json();
- $('#ao').innerHTML=`<p>Total: <b>${d.total}</b> · unique IPs: ${d.uniqueIps}</p><table>`+d.results.slice().sort((a,b)=>b.votes-a.votes).map(x=>`<tr><td>${SCHOOLS.find(s=>s.id==x.id).name}</td><td>${x.votes}</td><td>${x.pct}%</td></tr>`).join('')+'</table>'}}
-
 const SHARE_URL='https://koralimage-debug.github.io/nismcaa-meeting-room/sotd.html',SHARE_TEXT='Vote for your school! NISMCAA School of the Decade 🏆',E=encodeURIComponent;
 const INTENT={fb:`https://www.facebook.com/sharer/sharer.php?u=${E(SHARE_URL)}`,x:`https://twitter.com/intent/tweet?text=${E(SHARE_TEXT)}&url=${E(SHARE_URL)}`,
  wa:`https://wa.me/?text=${E(SHARE_TEXT+' '+SHARE_URL)}`,li:`https://www.linkedin.com/sharing/share-offsite/?url=${E(SHARE_URL)}`,
@@ -96,4 +106,5 @@ async function copy(){try{await navigator.clipboard.writeText(SHARE_URL);return 
 document.querySelectorAll('.sc').forEach(b=>b.onclick=async()=>{const n=b.closest('.share').querySelector('.sn'),k=b.dataset.k;
  if(k==='sh'){try{await navigator.share({title:'NISMCAA School of the Decade',text:SHARE_TEXT,url:SHARE_URL})}catch{}return}
  const ok=await copy();n.textContent=!ok?'Copy this link: '+SHARE_URL:k==='ig'?'Link copied, paste it in your Instagram story or bio':k==='tt'?'Link copied, paste it in your TikTok story or bio':'Link copied'});
+
 </script></body></html>

diff --git a/sotd-admin.html b/sotd-admin.html
@@ -1,0 +1,6 @@
+<!doctype html><html lang="en"><head><meta charset="utf-8"><meta name="viewport" content="width=device-width,initial-scale=1"><meta name="robots" content="noindex,nofollow"><title>SOTD admin</title>
+<style>body{font-family:system-ui,sans-serif;max-width:640px;margin:0 auto;padding:16px;color:#24123a}h1{color:#5B2A86}input,button{width:100%;min-height:48px;font-size:16px;margin:6px 0;box-sizing:border-box}button{background:#D4A537;border:0;border-radius:10px;font-weight:800}td{padding:8px;border-bottom:1px solid #eee}table{width:100%;border-collapse:collapse}</style></head><body>
+<h1>School of the Decade: vote counts</h1><input id="tok" type="password" placeholder="Admin token" autocomplete="off"><button id="ab">Show counts</button><div id="ao"></div>
+<script>const N={dansol:'Dansol High School',inglewood:'Inglewood Academy, Ikorodu',ronik:'Ronik Comprehensive',honeyland:'Honeyland College',imperial:'Imperial Light College',platform:'Platform School',lagoon:'Lagoon School'};
+ab.onclick=async()=>{try{const r=await fetch('https://nismcaa-payments.onrender.com/poll/sotd/admin',{headers:{Authorization:'Bearer '+tok.value}});if(!r.ok){ao.textContent='Wrong token.';return}const d=await r.json();
+ao.innerHTML=`<p>Total: <b>${d.total}</b> · connections (hashed IPs): ${d.uniqueIps} · deadline ${d.deadline}</p><table>`+d.results.slice().sort((a,b)=>b.votes-a.votes).map(x=>`<tr><td>${N[x.id]}</td><td>${x.votes}</td><td>${x.pct}%</td></tr>`).join('')+'</table>'}catch{ao.textContent='Server unavailable, try again.'}}</script></body></html>
